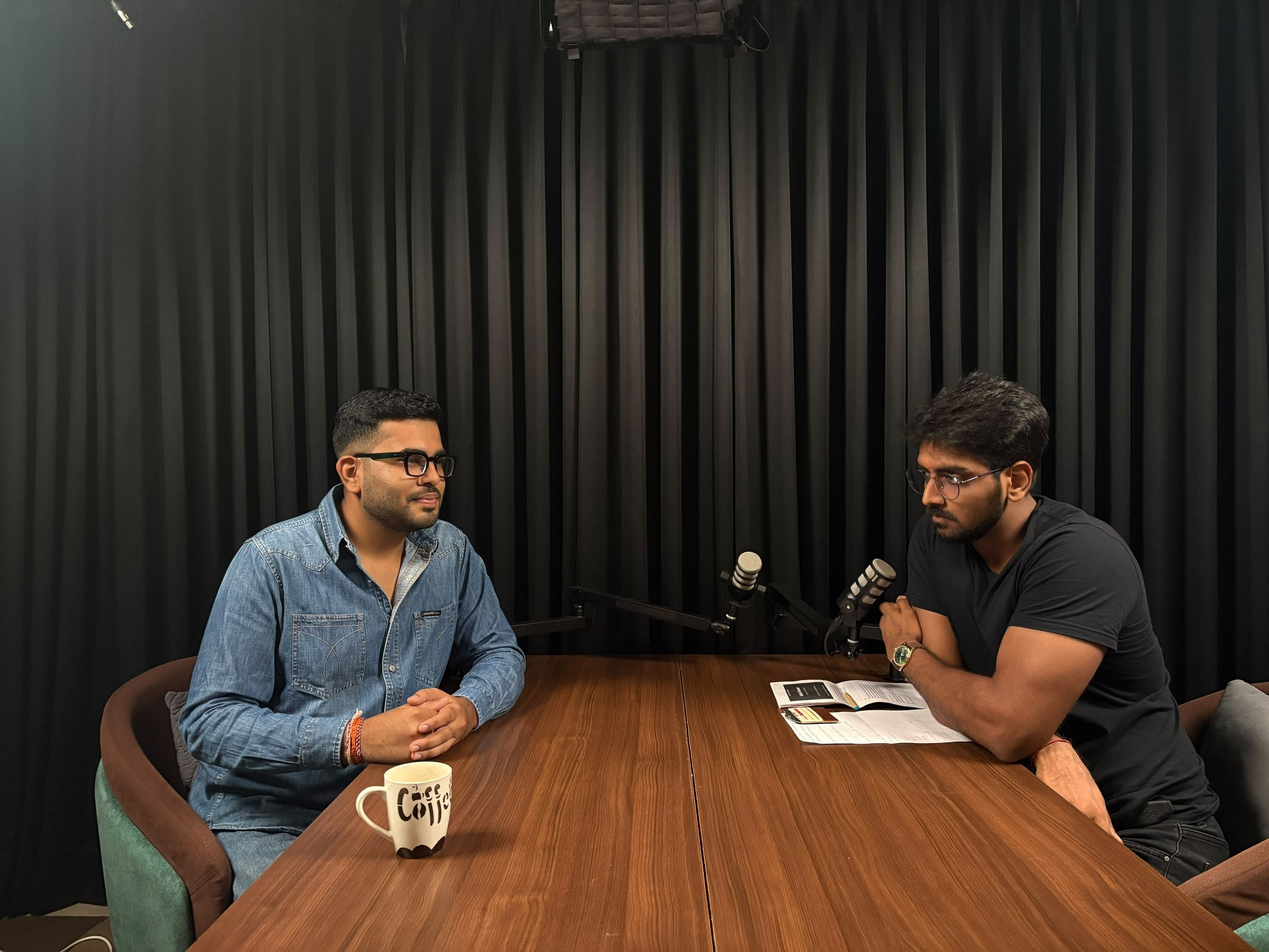
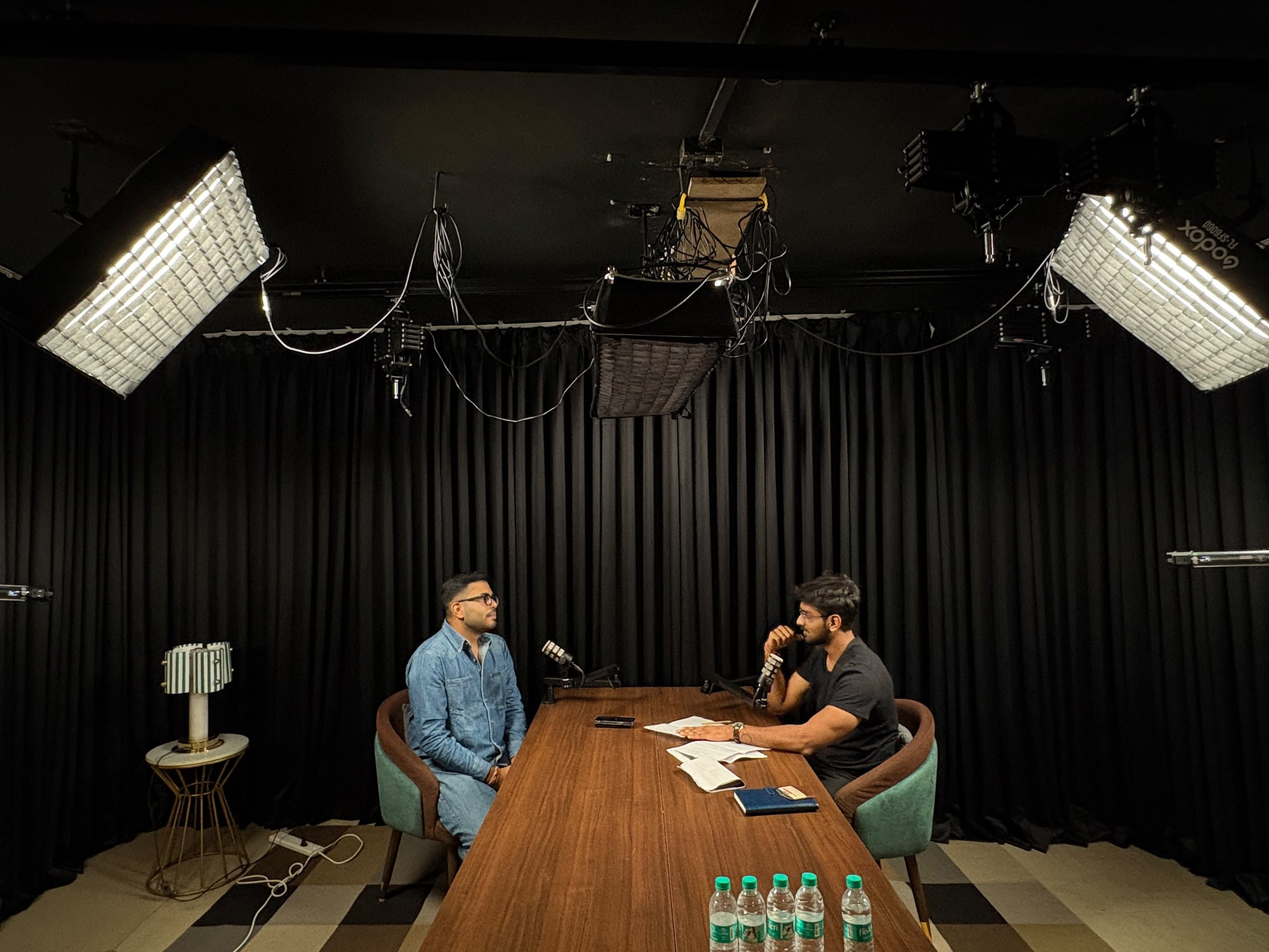
New opening photo: wide studio shot

diff --git a/assets/style.css b/assets/style.css
@@ -70,9 +70,9 @@ em { font-style: italic; }
 /* hero */
 /* hero: the studio photograph; headline sits on the curtain above the table, the people stay clear below */
 .hero { position: relative; min-height: 720px; height: 100vh; max-height: 1120px; display: flex; flex-direction: column; justify-content: space-between; overflow: hidden; }
-.hero .poster { position: absolute; inset: 0; width: 100%; height: 100%; object-fit: cover; object-position: 50% 8%; animation: drift 30s var(--ease) infinite alternate; transform-origin: 50% 45%; }
+.hero .poster { position: absolute; inset: 0; width: 100%; height: 100%; object-fit: cover; object-position: 50% 100%; animation: drift 30s var(--ease) infinite alternate; transform-origin: 50% 45%; }
 .hero .inner.foot { padding-top: 0; padding-bottom: 72px; }
-@media (max-width: 680px) { .hero .poster { object-position: 28% 8%; } .hero h1 { max-width: 14ch; font-size: 35px; } }
+@media (max-width: 680px) { .hero .poster { object-position: 46% 100%; } .hero h1 { max-width: 14ch; font-size: 35px; } }
 @keyframes drift { from { transform: scale(1.02); } to { transform: scale(1.08); } }
 @media (prefers-reduced-motion: reduce) { .hero .poster { animation: none; } }
 .hero::after { content: ""; position: absolute; inset: 0; background: linear-gradient(180deg, rgba(14,19,17,.8) 0%, rgba(14,19,17,.35) 30%, rgba(14,19,17,0) 46%, rgba(14,19,17,0) 66%, rgba(14,19,17,.82) 100%); }
